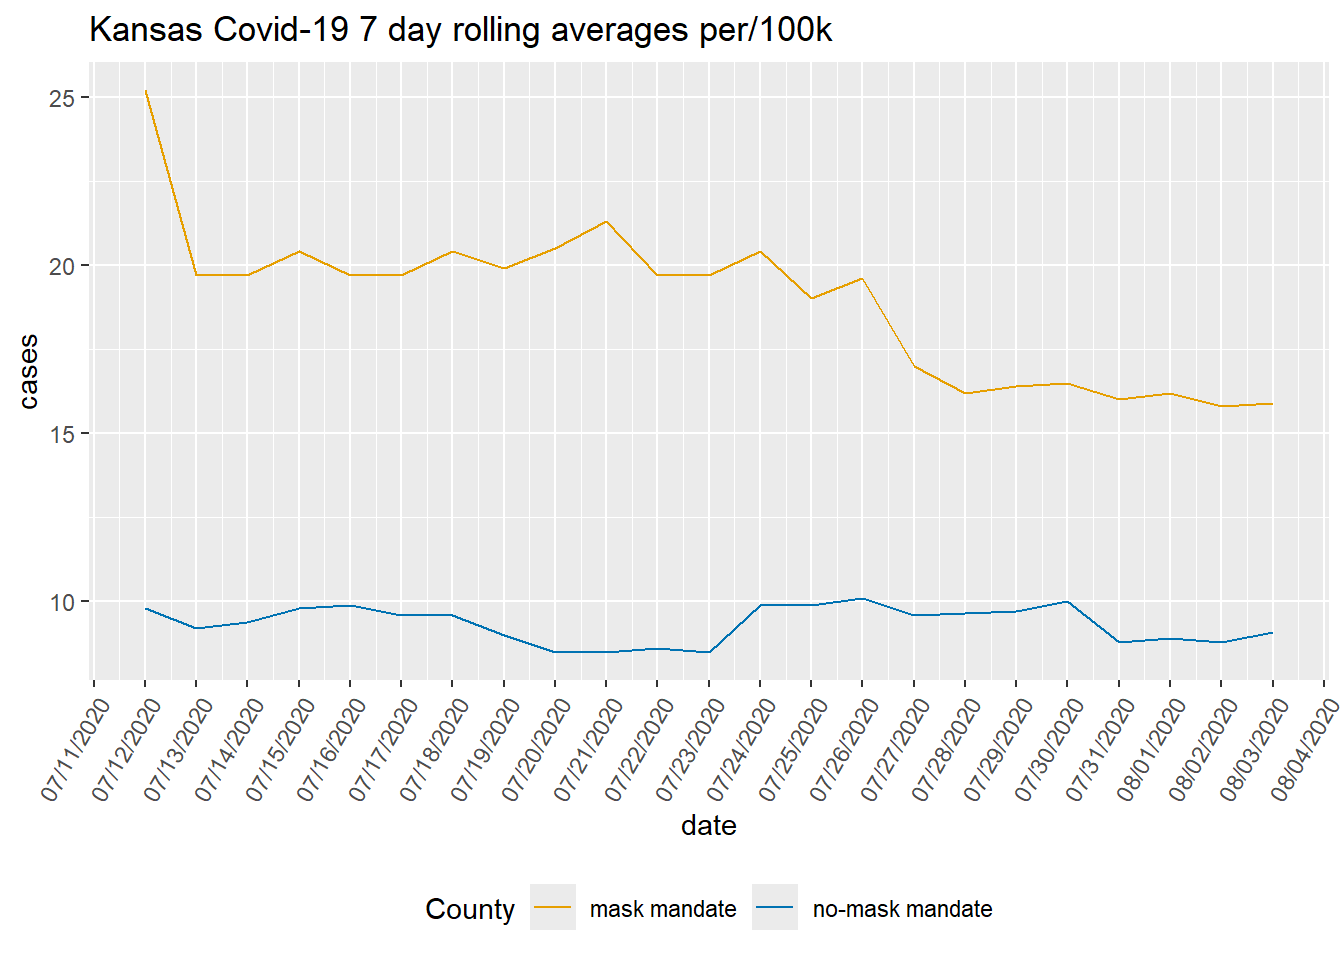
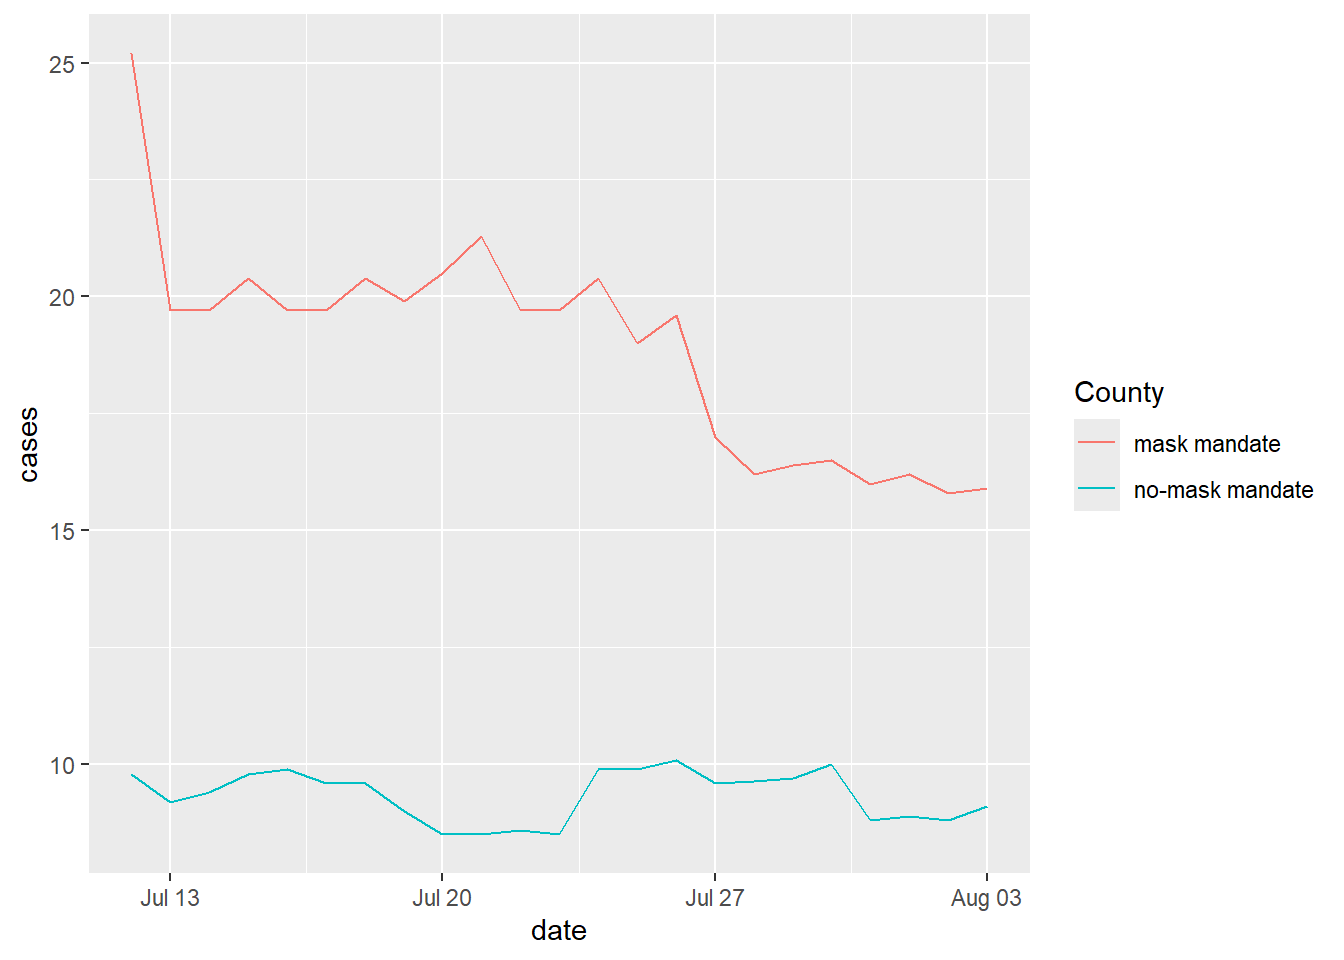
push a draft of the covid exercise

diff --git a/covid.html b/covid.html
@@ -122,10 +122,12 @@ div.csl-indent {
 
 <p>Programming exercises are designed to provide an opportunity for you to put what you learn in the videos and readings. These exercises feature interactive code chunks using a tool called <a href="https://docs.r-wasm.org/webr/latest">WebR</a>, which allow you to write, edit, and run R code without leaving your browser.</p>
 <p>When the WEBR STATUS says “Ready!”, you can interact with the code chunks!</p>
+<p>We invite you to think critically about the ethics questions assocciated with each graph before opening the solution box so you get the most out of this exercise.</p>
 <section id="packages" class="level2">
 <h2 class="anchored" data-anchor-id="packages">Packages</h2>
 <div class="cell">
-<div class="sourceCode cell-code" id="cb1"><pre class="sourceCode r code-with-copy"><code class="sourceCode r"><span id="cb1-1"><a href="#cb1-1" aria-hidden="true" tabindex="-1"></a><span class="fu">library</span>(tidyverse)</span></code><button title="Copy to Clipboard" class="code-copy-button"><i class="bi"></i></button></pre></div>
+<div class="sourceCode cell-code" id="cb1"><pre class="sourceCode r code-with-copy"><code class="sourceCode r"><span id="cb1-1"><a href="#cb1-1" aria-hidden="true" tabindex="-1"></a><span class="fu">library</span>(tidyverse)</span>
+<span id="cb1-2"><a href="#cb1-2" aria-hidden="true" tabindex="-1"></a><span class="fu">library</span>(ggridges)</span></code><button title="Copy to Clipboard" class="code-copy-button"><i class="bi"></i></button></pre></div>
 </div>
 <!-- begin: webr fodder -->
 <div class="cell" data-edit="false">
@@ -134,7 +136,7 @@ div.csl-indent {
 
 </div>
 <script type="webr-1-contents">
[2 lines of base64/hex data omitted]
 </script>
 </div>
 </div>
@@ -146,7 +148,7 @@ eyJjb2RlIjoib3B0aW9ucyhcInJlYWRyLmVkaXRpb25cIiA9IDEpIiwiYXR0ciI6eyJhdXRvcnVuIjpm
 <p>In this programming exercise, we are going to visit data from the Covid-19 pandemic, and work through two different data visualizations, identifying why they are misleading, and how they can be improved.</p>
 <div class="cell" data-setup="true" data-exercise="ex_1">
 <script type="exercise-setup-ex_1-contents">
[2 lines of base64/hex data omitted]
 </script>
 </div>
 </section>
@@ -160,7 +162,7 @@ eyJjb2RlIjoia2Fuc2FzX2NvdmlkIDwtIHJlYWRfY3N2KFwia2Fuc2FzX2NvdmlkLmNzdlwiKSIsImF0
 
 </div>
 <script type="webr-3-contents">
[2 lines of base64/hex data omitted]
 </script>
 </div>
 </div>
@@ -209,11 +211,10 @@ Solution
 
 </div>
 <script type="webr-4-contents">
[2 lines of base64/hex data omitted]
 </script>
 </div>
 </div>
-<p>Using our new graph, what proper conclusion can we make?</p>
 <div class="callout callout-style-default callout-tip callout-titled">
 <div class="callout-header d-flex align-content-center" data-bs-toggle="collapse" data-bs-target=".callout-3-contents" aria-controls="callout-3" aria-expanded="false" aria-label="Toggle callout">
 <div class="callout-icon-container">
@@ -226,11 +227,7 @@ Solution
 </div>
 <div id="callout-3" class="callout-3-contents callout-collapse collapse">
 <div class="callout-body-container callout-body">
-<p>Based on our new graph, we can see the Kansas Covid-19 7 day rolling averages per/100k between the dates of 7/12/2020 through 8/03/2020 decreased for the mask mandated counties, and stayed relatively consistent for the non-masked mandated counties. We can also see that within this date range, the non-mask mandated counties had a lower rolling average per/100k than masked mandated counties.</p>
-</div>
-</div>
-</div>
-<p>We can add the following lines of code to make the graph even more effective. We are using <a href="https://ggplot2.tidyverse.org/reference/scale_manual.html"><code>scale_color_manual()</code></a> to change the colors of the line assocciated with the County variable; <a href="https://ggplot2.tidyverse.org/reference/scale_date.html"><code>scale_x_date</code></a> to add date labels to the x-axis; <a href="https://ggplot2.tidyverse.org/reference/theme.html"><code>theme</code></a> to change the angle of the x-axis and the position of the legend; and <a href="https://ggplot2.tidyverse.org/reference/labs.html"><code>labs</code></a> to add a title!</p>
+<p>We can use <code>geom_line()</code> to create a line graph!</p>
 <div class="cell">
 <div class="sourceCode cell-code" id="cb2"><pre class="sourceCode r code-with-copy"><code class="sourceCode r"><span id="cb2-1"><a href="#cb2-1" aria-hidden="true" tabindex="-1"></a>kansas_covid <span class="sc">|&gt;</span></span>
 <span id="cb2-2"><a href="#cb2-2" aria-hidden="true" tabindex="-1"></a>  <span class="fu">pivot_longer</span>(<span class="sc">!</span>date, <span class="at">names_to =</span> <span class="st">"County"</span> , <span class="at">values_to =</span> <span class="st">"cases"</span>) <span class="sc">|&gt;</span></span>
@@ -238,13 +235,7 @@ Solution
 <span id="cb2-4"><a href="#cb2-4" aria-hidden="true" tabindex="-1"></a>  <span class="fu">ggplot</span>(</span>
 <span id="cb2-5"><a href="#cb2-5" aria-hidden="true" tabindex="-1"></a>    <span class="fu">aes</span>(<span class="at">x =</span> date , <span class="at">y =</span> cases , <span class="at">color =</span> County)</span>
 <span id="cb2-6"><a href="#cb2-6" aria-hidden="true" tabindex="-1"></a>  ) <span class="sc">+</span></span>
-<span id="cb2-7"><a href="#cb2-7" aria-hidden="true" tabindex="-1"></a>  <span class="fu">geom_line</span>() <span class="sc">+</span></span>
-<span id="cb2-8"><a href="#cb2-8" aria-hidden="true" tabindex="-1"></a>  <span class="fu">scale_color_manual</span>(<span class="at">values =</span> <span class="fu">c</span>(<span class="st">"mask mandate"</span> <span class="ot">=</span> <span class="st">"#E69F00"</span>,</span>
-<span id="cb2-9"><a href="#cb2-9" aria-hidden="true" tabindex="-1"></a>                                <span class="st">"no-mask mandate"</span> <span class="ot">=</span> <span class="st">"#0072B2"</span>)) <span class="sc">+</span></span>
-<span id="cb2-10"><a href="#cb2-10" aria-hidden="true" tabindex="-1"></a>  <span class="fu">scale_x_date</span>(<span class="at">date_labels =</span> <span class="st">"%m/%d/%Y"</span>, <span class="at">date_breaks =</span> <span class="st">"1 day"</span>) <span class="sc">+</span> </span>
-<span id="cb2-11"><a href="#cb2-11" aria-hidden="true" tabindex="-1"></a>  <span class="fu">theme</span>(<span class="at">axis.text.x =</span> <span class="fu">element_text</span>(<span class="at">angle =</span> <span class="dv">60</span>, <span class="at">hjust =</span> <span class="dv">1</span>),</span>
-<span id="cb2-12"><a href="#cb2-12" aria-hidden="true" tabindex="-1"></a>        <span class="at">legend.position =</span> <span class="st">"bottom"</span>) <span class="sc">+</span> </span>
-<span id="cb2-13"><a href="#cb2-13" aria-hidden="true" tabindex="-1"></a>  <span class="fu">labs</span>(<span class="at">title =</span> <span class="st">"Kansas Covid-19 7 day rolling averages per/100k"</span>)</span></code><button title="Copy to Clipboard" class="code-copy-button"><i class="bi"></i></button></pre></div>
+<span id="cb2-7"><a href="#cb2-7" aria-hidden="true" tabindex="-1"></a>  <span class="fu">geom_line</span>()</span></code><button title="Copy to Clipboard" class="code-copy-button"><i class="bi"></i></button></pre></div>
 <div class="cell-output-display">
 <div>
 <figure class="figure">
@@ -253,25 +244,174 @@ Solution
 </div>
 </div>
 </div>
-<div class="cell" data-exercise="ex_1">
+</div>
+</div>
+</div>
+<p>Using our new graph, what proper conclusion can we make?</p>
+<div class="callout callout-style-default callout-tip callout-titled">
+<div class="callout-header d-flex align-content-center" data-bs-toggle="collapse" data-bs-target=".callout-4-contents" aria-controls="callout-4" aria-expanded="false" aria-label="Toggle callout">
+<div class="callout-icon-container">
+<i class="callout-icon"></i>
+</div>
+<div class="callout-title-container flex-fill">
+Solution
+</div>
+<div class="callout-btn-toggle d-inline-block border-0 py-1 ps-1 pe-0 float-end"><i class="callout-toggle"></i></div>
+</div>
+<div id="callout-4" class="callout-4-contents callout-collapse collapse">
+<div class="callout-body-container callout-body">
+<p>Based on our new graph, we can see the Kansas Covid-19 7 day rolling averages per/100k between the dates of 7/12/2020 through 8/03/2020 decreased for the mask mandated counties, and stayed relatively consistent for the non-masked mandated counties. We can also see that within this date range, the non-mask mandated counties had a lower rolling average per/100k than masked mandated counties.</p>
+</div>
+</div>
+</div>
+<p>We can add the following lines of code to make the graph even more effective. We are using <a href="https://ggplot2.tidyverse.org/reference/scale_manual.html"><code>scale_color_manual()</code></a> to change the colors of the line assocciated with the County variable; <a href="https://ggplot2.tidyverse.org/reference/scale_date.html"><code>scale_x_date</code></a> to add date labels to the x-axis; <a href="https://ggplot2.tidyverse.org/reference/theme.html"><code>theme</code></a> to change the angle of the x-axis and the position of the legend; and <a href="https://ggplot2.tidyverse.org/reference/labs.html"><code>labs</code></a> to add a title!</p>
+<div class="cell">
 <div>
 <div id="webr-5">
 
 </div>
 <script type="webr-5-contents">
[2 lines of base64/hex data omitted]
 </script>
 </div>
 </div>
 </section>
 <section id="georgia-covid" class="level2">
 <h2 class="anchored" data-anchor-id="georgia-covid">Georgia Covid</h2>
-<p>https://livefreeordichotomize.com/posts/2020-05-17-graph-detective/index.html</p>
+<p>Georgia DPH temporarily published the following graph on the COVID-19 Daily Status Report. The data and associated plot can be found below. These data are pulled from the NY Times.</p>
+<div class="cell" data-setup="true" data-exercise="ex_2">
+<script type="exercise-setup-ex_2-contents">
[1 lines of base64/hex data omitted]
+</script>
+</div>
+<div class="cell">
+<div>
+<div id="webr-7">
+
+</div>
+<script type="webr-7-contents">
[1 lines of base64/hex data omitted]
+</script>
+</div>
+</div>
+<p><img src="exercises/images/georgia_covid.png" class="img-fluid"></p>
+<p>What is misleading about this graph? Why might it be misleading?</p>
+<div class="callout callout-style-default callout-tip callout-titled">
+<div class="callout-header d-flex align-content-center" data-bs-toggle="collapse" data-bs-target=".callout-5-contents" aria-controls="callout-5" aria-expanded="false" aria-label="Toggle callout">
+<div class="callout-icon-container">
+<i class="callout-icon"></i>
+</div>
+<div class="callout-title-container flex-fill">
+Solution
+</div>
+<div class="callout-btn-toggle d-inline-block border-0 py-1 ps-1 pe-0 float-end"><i class="callout-toggle"></i></div>
+</div>
+<div id="callout-5" class="callout-5-contents callout-collapse collapse">
+<div class="callout-body-container callout-body">
+<p>The dates on the x-axis are not in chronological order. This is extremely misleading, and a general audience is going to assume a correct chronological order to the dates from left to right. Further, the order of the counties within date are sorted from highest to lowest, making cross date comparison more difficult for each county.</p>
+</div>
+</div>
+</div>
+<p>What trend in these data might someone conclude because of the misleading visualization?</p>
+<div class="callout callout-style-default callout-tip callout-titled">
+<div class="callout-header d-flex align-content-center" data-bs-toggle="collapse" data-bs-target=".callout-6-contents" aria-controls="callout-6" aria-expanded="false" aria-label="Toggle callout">
+<div class="callout-icon-container">
+<i class="callout-icon"></i>
+</div>
+<div class="callout-title-container flex-fill">
+Solution
+</div>
+<div class="callout-btn-toggle d-inline-block border-0 py-1 ps-1 pe-0 float-end"><i class="callout-toggle"></i></div>
+</div>
+<div id="callout-6" class="callout-6-contents callout-collapse collapse">
+<div class="callout-body-container callout-body">
+<p>Based on the misleading visualization, one could come to the conclusion that the trend of Covid-19 cases across these five counties are significantly decreasing each day.</p>
+</div>
+</div>
+</div>
+<p>We can use the following code to help make their plot less misleading. In the <code>date</code> variable, we can make sure that the levels go in chronological order using the <code>levels</code> argument in the <code>mutate()</code> function. We will not sort the levels of county within each date to be in decending order, to make comparisons easier.</p>
+<div class="cell">
+<div class="sourceCode cell-code" id="cb3"><pre class="sourceCode r code-with-copy"><code class="sourceCode r"><span id="cb3-1"><a href="#cb3-1" aria-hidden="true" tabindex="-1"></a>georgia_covid <span class="sc">|&gt;</span></span>
+<span id="cb3-2"><a href="#cb3-2" aria-hidden="true" tabindex="-1"></a>  <span class="fu">filter</span>(date <span class="sc">&gt;=</span> <span class="st">"2020-04-26"</span>, date <span class="sc">&lt;=</span> <span class="st">"2020-05-09"</span>) <span class="sc">%&gt;%</span></span>
+<span id="cb3-3"><a href="#cb3-3" aria-hidden="true" tabindex="-1"></a>  <span class="fu">mutate</span>(</span>
+<span id="cb3-4"><a href="#cb3-4" aria-hidden="true" tabindex="-1"></a>    <span class="at">date =</span> <span class="fu">format</span>(date, <span class="st">"%d%b%Y"</span>), </span>
+<span id="cb3-5"><a href="#cb3-5" aria-hidden="true" tabindex="-1"></a>    <span class="at">date =</span> <span class="fu">factor</span>(date,</span>
+<span id="cb3-6"><a href="#cb3-6" aria-hidden="true" tabindex="-1"></a>                  <span class="at">levels =</span> <span class="fu">c</span>(<span class="st">"26Apr2020"</span>, <span class="st">"27Apr2020"</span>, <span class="st">"28Apr2020"</span>, </span>
+<span id="cb3-7"><a href="#cb3-7" aria-hidden="true" tabindex="-1"></a>                             <span class="st">"29Apr2020"</span>, <span class="st">"30Apr2020"</span>, <span class="st">"01May2020"</span>, </span>
+<span id="cb3-8"><a href="#cb3-8" aria-hidden="true" tabindex="-1"></a>                             <span class="st">"02May2020"</span>, <span class="st">"03May2020"</span>, <span class="st">"04May2020"</span>,</span>
+<span id="cb3-9"><a href="#cb3-9" aria-hidden="true" tabindex="-1"></a>                             <span class="st">"05May2020"</span>, <span class="st">"06May2020"</span>, <span class="st">"07May2020"</span>, </span>
+<span id="cb3-10"><a href="#cb3-10" aria-hidden="true" tabindex="-1"></a>                             <span class="st">"08May2020"</span>, <span class="st">"09May2020"</span>))) <span class="sc">%&gt;%</span></span>
+<span id="cb3-11"><a href="#cb3-11" aria-hidden="true" tabindex="-1"></a>  <span class="fu">ggplot</span>(<span class="fu">aes</span>(<span class="at">x =</span> date, <span class="at">y =</span> case, <span class="at">group =</span> county, <span class="at">fill =</span> county)) <span class="sc">+</span></span>
+<span id="cb3-12"><a href="#cb3-12" aria-hidden="true" tabindex="-1"></a>  <span class="fu">geom_col</span>(<span class="at">position =</span> <span class="fu">position_dodge</span>(), <span class="at">width=</span>.<span class="dv">8</span>) <span class="sc">+</span> </span>
+<span id="cb3-13"><a href="#cb3-13" aria-hidden="true" tabindex="-1"></a>  <span class="fu">scale_x_discrete</span>(<span class="at">guide =</span> <span class="fu">guide_axis</span>(<span class="at">n.dodge =</span> <span class="dv">2</span>)) <span class="sc">+</span></span>
+<span id="cb3-14"><a href="#cb3-14" aria-hidden="true" tabindex="-1"></a>  <span class="fu">scale_fill_manual</span>(<span class="st">"County"</span>,</span>
+<span id="cb3-15"><a href="#cb3-15" aria-hidden="true" tabindex="-1"></a>                    <span class="at">values =</span> <span class="fu">c</span>(<span class="st">"#5854A8"</span>, <span class="st">"#46868E"</span>, <span class="st">"#958648"</span>, </span>
+<span id="cb3-16"><a href="#cb3-16" aria-hidden="true" tabindex="-1"></a>                               <span class="st">"#8F5D37"</span>, <span class="st">"#5D98DB"</span>),</span>
+<span id="cb3-17"><a href="#cb3-17" aria-hidden="true" tabindex="-1"></a>                    <span class="at">guide =</span> <span class="fu">guide_legend</span>(<span class="at">title.position =</span> <span class="st">"top"</span>,</span>
+<span id="cb3-18"><a href="#cb3-18" aria-hidden="true" tabindex="-1"></a>                                         <span class="at">title.hjust =</span> <span class="fl">0.5</span>)) <span class="sc">+</span> </span>
+<span id="cb3-19"><a href="#cb3-19" aria-hidden="true" tabindex="-1"></a>  <span class="fu">ggtitle</span>(</span>
+<span id="cb3-20"><a href="#cb3-20" aria-hidden="true" tabindex="-1"></a>    <span class="st">"Top 5 Counties with the Greatest Number of Confirmed COVID-19 Cases"</span>,</span>
+<span id="cb3-21"><a href="#cb3-21" aria-hidden="true" tabindex="-1"></a>    <span class="at">subtitle =</span> <span class="st">"The chart below represents the most impacted counties over the past 15 days and the number of cases over time."</span>) <span class="sc">+</span></span>
+<span id="cb3-22"><a href="#cb3-22" aria-hidden="true" tabindex="-1"></a>  <span class="fu">theme_classic</span>() <span class="sc">+</span></span>
+<span id="cb3-23"><a href="#cb3-23" aria-hidden="true" tabindex="-1"></a>  <span class="fu">theme</span>(<span class="at">legend.position =</span> <span class="st">"top"</span>, </span>
+<span id="cb3-24"><a href="#cb3-24" aria-hidden="true" tabindex="-1"></a>        <span class="at">panel.background =</span> <span class="fu">element_rect</span>(<span class="at">fill =</span> <span class="st">"#182F4E"</span>),</span>
+<span id="cb3-25"><a href="#cb3-25" aria-hidden="true" tabindex="-1"></a>        <span class="at">plot.background =</span> <span class="fu">element_rect</span>(<span class="at">fill =</span> <span class="st">"#182F4E"</span>),</span>
+<span id="cb3-26"><a href="#cb3-26" aria-hidden="true" tabindex="-1"></a>        <span class="at">axis.line =</span> <span class="fu">element_line</span>(<span class="at">color =</span> <span class="st">"white"</span>),</span>
+<span id="cb3-27"><a href="#cb3-27" aria-hidden="true" tabindex="-1"></a>        <span class="at">axis.text =</span> <span class="fu">element_text</span>(<span class="at">color =</span> <span class="st">"white"</span>),</span>
+<span id="cb3-28"><a href="#cb3-28" aria-hidden="true" tabindex="-1"></a>        <span class="at">axis.title =</span> <span class="fu">element_text</span>(<span class="at">color =</span> <span class="st">"white"</span>),</span>
+<span id="cb3-29"><a href="#cb3-29" aria-hidden="true" tabindex="-1"></a>        <span class="at">legend.background =</span> <span class="fu">element_rect</span>(<span class="at">fill =</span> <span class="st">"#182F4E"</span>),</span>
+<span id="cb3-30"><a href="#cb3-30" aria-hidden="true" tabindex="-1"></a>        <span class="at">legend.text =</span> <span class="fu">element_text</span>(<span class="at">color =</span> <span class="st">"white"</span>),</span>
+<span id="cb3-31"><a href="#cb3-31" aria-hidden="true" tabindex="-1"></a>        <span class="at">legend.title =</span> <span class="fu">element_text</span>(<span class="at">color =</span> <span class="st">"white"</span>),</span>
+<span id="cb3-32"><a href="#cb3-32" aria-hidden="true" tabindex="-1"></a>        <span class="at">title =</span> <span class="fu">element_text</span>(<span class="at">color =</span> <span class="st">"white"</span>))</span></code><button title="Copy to Clipboard" class="code-copy-button"><i class="bi"></i></button></pre></div>
+<div class="cell-output-display">
+<div>
+<figure class="figure">
+<p><img src="covid_files/figure-html/unnamed-chunk-13-1.png" class="img-fluid figure-img" width="672"></p>
+</figure>
+</div>
+</div>
+</div>
+<p>Using our new graph, what proper conclusion can we make?</p>
+<div class="callout callout-style-default callout-tip callout-titled">
+<div class="callout-header d-flex align-content-center" data-bs-toggle="collapse" data-bs-target=".callout-7-contents" aria-controls="callout-7" aria-expanded="false" aria-label="Toggle callout">
+<div class="callout-icon-container">
+<i class="callout-icon"></i>
+</div>
+<div class="callout-title-container flex-fill">
+Solution
+</div>
+<div class="callout-btn-toggle d-inline-block border-0 py-1 ps-1 pe-0 float-end"><i class="callout-toggle"></i></div>
+</div>
+<div id="callout-7" class="callout-7-contents callout-collapse collapse">
+<div class="callout-body-container callout-body">
+<p>Based on the less misleading graph, we can see that the overall trend of cases across the five counties may have gone down, but the rate in which they went down depends on the county. Further, some counties (ex. Hall) show a more cyclic pattern than an overall downward trend.</p>
+</div>
+</div>
+</div>
+<p>What are some of your overall takeaways after working with these two misleading graphs?</p>
+<div class="callout callout-style-default callout-tip callout-titled">
+<div class="callout-header d-flex align-content-center" data-bs-toggle="collapse" data-bs-target=".callout-8-contents" aria-controls="callout-8" aria-expanded="false" aria-label="Toggle callout">
+<div class="callout-icon-container">
+<i class="callout-icon"></i>
+</div>
+<div class="callout-title-container flex-fill">
+Takeaways
+</div>
+<div class="callout-btn-toggle d-inline-block border-0 py-1 ps-1 pe-0 float-end"><i class="callout-toggle"></i></div>
+</div>
+<div id="callout-8" class="callout-8-contents callout-collapse collapse">
+<div class="callout-body-container callout-body">
+<p>– We digest information from graphs very quickly. If data are misrepresented, it may not be initially obvious, leading to some making incorrect conclusions.</p>
+<p>– Data cane be manipulated based on their axes. If you are creating / consuming graphed information, it’s important to be cognizant of the scale and order in which information on the axes are in.</p>
+<p>– Plotting data in a unfamiliar way (ex. having two y-axes) can be misleading, instead of a helpful comparison tool. As a researcher, think critically about how your audience is going scan your visualization.</p>
+</div>
+</div>
+</div>
 <script type="webr-data">
[2 lines of base64/hex data omitted]
 </script>
 <script type="ojs-module-contents">
[2 lines of base64/hex data omitted]
 </script>
 <div id="exercise-loading-indicator" class="exercise-loading-indicator d-none d-flex align-items-center gap-2">
 <div id="exercise-loading-status" class="d-flex gap-2">
